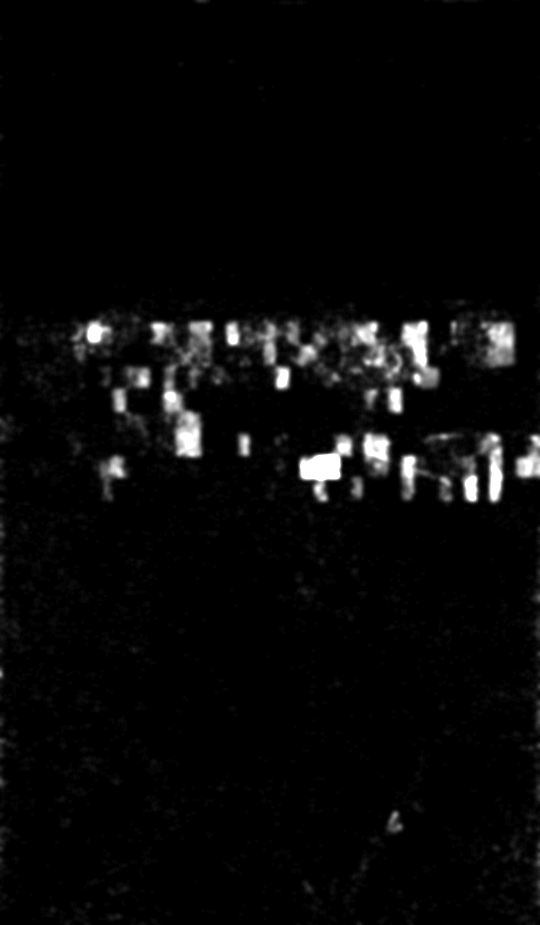
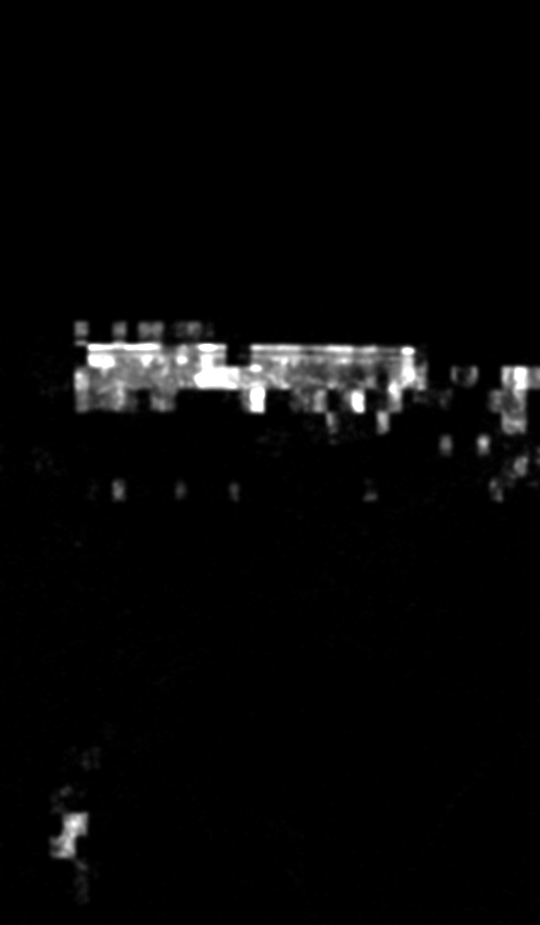
feat: update landing page assets and enhance SAM geometry tests

diff --git a/frontend/src/landing/LandingPage.vue b/frontend/src/landing/LandingPage.vue
@@ -35,6 +35,15 @@ const smoothstep = (edge0, edge1, x) => {
 
 const diveDarkness = computed(() => smoothstep(4.55, 5.0, storyPosition.value))
 
+function actOpacity(act) {
+  if (reducedMotion) return 1
+  const pos = storyPosition.value
+  const fadeOutStart = act === ACT.SACCADE ? act + 0.7 : act + 0.48
+  const fadeOutEnd = act === ACT.SACCADE ? act + 0.92 : act + 0.78
+  if (pos <= fadeOutStart) return 1
+  return 1 - smoothstep(fadeOutStart, fadeOutEnd, pos)
+}
+
 const facts = computed(() => {
   const data = snapshot.value
   if (!data) return null
@@ -49,6 +58,8 @@ const facts = computed(() => {
     maxSurprise: source.maxSurprise.toFixed(2),
     dataset: source.dataset,
     focusTime: focus.formattedTime,
+    focusSurprise: focus.surprise.toFixed(2),
+    focusFrame: focus.frameIdx,
     boardBeesSam: focus.boardBeesSam,
     hotspotBeesSam: focus.hotspotBeesSam,
     boardBeesDetector: focus.boardBeesVjepaDetector,
@@ -167,7 +178,7 @@ onBeforeUnmount(() => {
     <main v-if="facts" class="landing__story">
       <section :ref="bindSection(ACT.ARRIVAL)" class="act act--arrival" :class="{ 'is-seen': isSeen(ACT.ARRIVAL) }">
         <div class="act__content">
-          <div class="act__inner">
+          <div class="act__inner" :style="{ opacity: actOpacity(ACT.ARRIVAL) }">
             <p class="eyebrow">Hive entrance monitoring</p>
             <h1 class="act__title act__title--hero">
               <CalligraphyWord word="beeJEPA" :drawn="sceneState !== 'loading'" />
@@ -187,7 +198,7 @@ onBeforeUnmount(() => {
 
       <section :ref="bindSection(ACT.PERIPHERY)" class="act" :class="{ 'is-seen': isSeen(ACT.PERIPHERY) }">
         <div class="act__content">
-          <div class="act__inner">
+          <div class="act__inner" :style="{ opacity: actOpacity(ACT.PERIPHERY) }">
             <p class="eyebrow">Act I · System 1</p>
             <h2 class="act__title"><CalligraphyWord word="Periphery" :drawn="isSeen(ACT.PERIPHERY)" /></h2>
             <p class="body">
@@ -201,14 +212,15 @@ onBeforeUnmount(() => {
 
       <section :ref="bindSection(ACT.SURPRISE)" class="act" :class="{ 'is-seen': isSeen(ACT.SURPRISE) }">
         <div class="act__content">
-          <div class="act__inner">
+          <div class="act__inner" :style="{ opacity: actOpacity(ACT.SURPRISE) }">
             <p class="eyebrow">Act II · Latent prediction error</p>
             <h2 class="act__title"><CalligraphyWord word="Surprise" :drawn="isSeen(ACT.SURPRISE)" /></h2>
             <p class="formula">S(t) = ‖z<sub>pred</sub> − z<sub>target</sub>‖<sub>2</sub></p>
             <p class="body">
-              S(t) rises when the observed dynamics differ from the prediction. The {{ facts.measurementCount }}
-              measurements contain {{ facts.eventCount }} peak events. The highest is
-              <strong>{{ facts.maxSurprise }}σ</strong> at {{ facts.focusTime }}.
+              S(t) rises when observed dynamics differ from prediction ({{ facts.eventCount }} peaks in
+              {{ facts.measurementCount }} windows). At 00:00 ({{ facts.maxSurprise }}σ), camera placement shakes the
+              whole frame including the grass; at {{ facts.focusTime }} (<strong>{{ facts.focusSurprise }}σ</strong>,
+              frame #{{ facts.focusFrame }}), the camera is stationary and attention localizes on the flight board.
             </p>
             <p class="data">Peak events glow vermilion · height = recorded S(t)</p>
           </div>
@@ -217,12 +229,12 @@ onBeforeUnmount(() => {
 
       <section :ref="bindSection(ACT.SACCADE)" class="act act--tall" :class="{ 'is-seen': isSeen(ACT.SACCADE) }">
         <div class="act__content">
-          <div class="act__inner">
-            <p class="eyebrow">Act III · Foveal crop</p>
+          <div class="act__inner" :style="{ opacity: actOpacity(ACT.SACCADE) }">
+            <p class="eyebrow">Act III · Foveal crop · {{ facts.focusTime }} ({{ facts.focusSurprise }}<span class="sigma">σ</span>)</p>
             <h2 class="act__title"><CalligraphyWord word="Saccade" :drawn="isSeen(ACT.SACCADE)" /></h2>
             <p class="body">
-              The view moves to the region marked by the V-JEPA attention map. SAM 3.1 segments the bees in that
-              region of the keyframe.
+              The view moves to the region marked by the V-JEPA attention map at {{ facts.focusTime }}. SAM 3.1
+              segments the bees on the landing board and isolates the active cluster inside the attention hotspot.
             </p>
             <dl class="readout">
               <div>
@@ -248,7 +260,7 @@ onBeforeUnmount(() => {
 
       <section :ref="bindSection(ACT.REPORT)" class="act" :class="{ 'is-seen': isSeen(ACT.REPORT) }">
         <div class="act__content">
-          <div class="act__inner">
+          <div class="act__inner" :style="{ opacity: actOpacity(ACT.REPORT) }">
             <p class="eyebrow">Act IV · System 2</p>
             <h2 class="act__title"><CalligraphyWord word="Report" :drawn="isSeen(ACT.REPORT)" /></h2>
             <blockquote class="quote">
@@ -405,7 +417,7 @@ onBeforeUnmount(() => {
 }
 
 .act--tall {
-  min-height: 230svh;
+  min-height: 260svh;
 }
 
 .act--enter {
@@ -428,6 +440,16 @@ onBeforeUnmount(() => {
   gap: 0.9rem;
   width: 100%;
   max-width: 34rem;
+}
+
+.act:not(.act--enter) .act__inner {
+  padding: 1.15rem 1.25rem;
+  border: 1px solid rgba(232, 163, 61, 0.16);
+  border-radius: 1rem;
+  background: linear-gradient(180deg, rgba(11, 9, 6, 0.88) 0%, rgba(11, 9, 6, 0.96) 100%);
+  backdrop-filter: blur(14px);
+  -webkit-backdrop-filter: blur(14px);
+  box-shadow: 0 18px 42px rgba(0, 0, 0, 0.72);
 }
 
 .act__inner > * {
@@ -471,6 +493,10 @@ onBeforeUnmount(() => {
   letter-spacing: 0.2em;
   text-transform: uppercase;
   color: var(--wax-muted);
+}
+
+.sigma {
+  text-transform: none;
 }
 
 .act__title {

diff --git a/frontend/src/landing/scene/KeyframeStage.js b/frontend/src/landing/scene/KeyframeStage.js
@@ -77,8 +77,11 @@ export class KeyframeStage {
     })
     this.group.add(new Mesh(this.planeGeometry, this.planeMaterial))
 
-    this.boxes = this.createSamBoxes(focus.samBoxes)
-    this.group.add(this.boxes)
+    this.boardBoxes = this.createBoxLines(focus.boardBoxes || [], PALETTE.waxMuted)
+    this.group.add(this.boardBoxes.lines)
+
+    this.boxes = this.createBoxLines(focus.samBoxes, PALETTE.honey)
+    this.group.add(this.boxes.lines)
 
     this.reticle = this.createReticle()
     this.reticle.position.copy(this.localPointAt(...focus.attention.peak, OVERLAY_OFFSET * 2))
@@ -94,9 +97,9 @@ export class KeyframeStage {
     return this.localPointAt(px, py).add(this.group.position)
   }
 
-  createSamBoxes(samBoxes) {
+  createBoxLines(boxList, colorHex) {
     const vertices = []
-    for (const [x1, y1, x2, y2] of samBoxes) {
+    for (const [x1, y1, x2, y2] of boxList) {
       const corners = [
         this.localPointAt(x1, y1, OVERLAY_OFFSET),
         this.localPointAt(x2, y1, OVERLAY_OFFSET),
@@ -108,12 +111,12 @@ export class KeyframeStage {
         vertices.push(corner.x, corner.y, corner.z, next.x, next.y, next.z)
       })
     }
-    this.boxGeometry = new BufferGeometry()
-    this.boxGeometry.setAttribute('position', new Float32BufferAttribute(vertices, 3))
-    this.boxMaterial = new LineBasicMaterial({ color: PALETTE.honey, transparent: true, depthWrite: false })
-    const lines = new LineSegments(this.boxGeometry, this.boxMaterial)
+    const geometry = new BufferGeometry()
+    geometry.setAttribute('position', new Float32BufferAttribute(vertices, 3))
+    const material = new LineBasicMaterial({ color: colorHex, transparent: true, depthWrite: false })
+    const lines = new LineSegments(geometry, material)
     lines.renderOrder = 2
-    return lines
+    return { geometry, material, lines, count: boxList.length }
   }
 
   createReticle() {
@@ -155,9 +158,13 @@ export class KeyframeStage {
 
   /** Reveals the real SAM 3.1 boxes one by one. */
   setBoxReveal(value) {
-    const visibleBoxes = Math.round(value * this.focus.samBoxes.length)
-    this.boxGeometry.setDrawRange(0, visibleBoxes * 8)
-    this.boxMaterial.opacity = Math.min(1, value * 3)
+    const visibleHotspot = Math.round(value * this.boxes.count)
+    this.boxes.geometry.setDrawRange(0, visibleHotspot * 8)
+    this.boxes.material.opacity = Math.min(1, value * 3)
+
+    const visibleBoard = Math.round(value * this.boardBoxes.count)
+    this.boardBoxes.geometry.setDrawRange(0, visibleBoard * 8)
+    this.boardBoxes.material.opacity = Math.min(0.42, value * 1.4)
   }
 
   /** lock = 0: reticle wide and loose, lock = 1: snapped onto the attention peak. */
@@ -177,8 +184,10 @@ export class KeyframeStage {
     for (const disposable of [
       this.planeGeometry,
       this.planeMaterial,
-      this.boxGeometry,
-      this.boxMaterial,
+      this.boxes.geometry,
+      this.boxes.material,
+      this.boardBoxes.geometry,
+      this.boardBoxes.material,
       this.ringGeometry,
       this.reticleMaterial,
       this.tickGeometry,

diff --git a/frontend/src/landing/scene/HiveScene.js b/frontend/src/landing/scene/HiveScene.js
@@ -188,10 +188,10 @@ export class HiveScene {
     this.ribbon.setReveal(smoothstep(0.05, 1.2, story))
     this.pillars.setGrowth(smoothstep(1.9, 2.7, story))
     this.stage.setOpacity(saccade)
-    this.stage.setHeat(smoothstep(3.0, 3.25, story))
-    this.stage.setBoxReveal(smoothstep(3.25, 3.8, story))
+    this.stage.setHeat(smoothstep(3.0, 3.22, story))
+    this.stage.setBoxReveal(smoothstep(3.15, 3.55, story))
     this.stage.setReticle(saccade, saccade * (1 - smoothstep(4.2, 4.6, story) * 0.65))
-    this.swarm.setLanding(smoothstep(3.3, 3.9, story))
+    this.swarm.setLanding(smoothstep(3.2, 3.6, story))
   }
 
   resize() {

diff --git a/scripts/build_landing_snapshot.py b/scripts/build_landing_snapshot.py
@@ -27,7 +27,7 @@ PROJECT_ROOT = Path(__file__).resolve().parent.parent
 SAMPLE_DIR = PROJECT_ROOT / "data" / "hackathon_sample"
 OUTPUT_DIR = PROJECT_ROOT / "frontend" / "public" / "landing"
 
-FOCUS_EVENT_ID = "evt_rec2125_seq000_f0000"
+FOCUS_EVENT_ID = "evt_rec2125_seq000_f1217"
 HEADER_LUMINANCE_THRESHOLD = 40.0
 HEADER_MIN_BRIGHT_RUN = 24
 HEAT_NOISE_FLOOR = 36.0
@@ -119,6 +119,15 @@ def shift_boxes_into_panel(sam_summary: dict, geometry: PanelGeometry) -> list[l
     return boxes
 
 
+def shift_board_boxes_into_panel(sam_summary: dict, geometry: PanelGeometry) -> list[list[int]]:
+    boxes = []
+    for raw_box in sam_summary.get("boardBees", []):
+        x1, y1, x2, y2 = raw_box
+        if x2 <= geometry.panel_width:
+            boxes.append([x1, y1 - geometry.header_height, x2, y2 - geometry.header_height])
+    return boxes
+
+
 def build_snapshot() -> dict:
     manifest = load_json(SAMPLE_DIR / "manifest.json")
     sam_summary = load_json(SAMPLE_DIR / "cache" / f"sam_spatial_{FOCUS_EVENT_ID}.json")
@@ -153,6 +162,8 @@ def build_snapshot() -> dict:
         "focus": {
             "eventId": FOCUS_EVENT_ID,
             "formattedTime": focus_event["formatted_time"],
+            "timeSec": focus_event["time_sec_global"],
+            "frameIdx": focus_event["frame_approx"],
             "surprise": focus_event["surprise_score"],
             "boardBeesVjepaDetector": focus_event["board_bees"],
             "boardBeesSam": sam_summary["landingBoardBeeCount"],
@@ -160,6 +171,7 @@ def build_snapshot() -> dict:
             "classification": sam_summary["geometricPreClassification"],
             "frame": {"width": geometry.panel_width, "height": geometry.panel_height},
             "samBoxes": shift_boxes_into_panel(sam_summary, geometry),
+            "boardBoxes": shift_board_boxes_into_panel(sam_summary, geometry),
             "attention": describe_attention(heat),
         },
         "muse": {

diff --git a/src/test/java/com/beejepa/muse/SamGeometryTest.java b/src/test/java/com/beejepa/muse/SamGeometryTest.java
@@ -22,17 +22,17 @@ class SamGeometryTest {
 
     @Test
     void testLandingBoardFilter() {
-        // Landing board ROI: cx <= 535, 310 <= cy <= 440
-        BoundingBox onBoard = new BoundingBox(300, 350, 360, 410);
+        // Landing board ROI: cx <= 535, 372 <= cy <= 518
+        BoundingBox onBoard = new BoundingBox(300, 390, 360, 450);
         Assertions.assertTrue(onBoard.isOnLandingBoard());
 
-        BoundingBox offBoardRight = new BoundingBox(550, 350, 600, 410);
+        BoundingBox offBoardRight = new BoundingBox(550, 390, 600, 450);
         Assertions.assertFalse(offBoardRight.isOnLandingBoard());
 
-        BoundingBox offBoardTop = new BoundingBox(300, 100, 350, 150);
+        BoundingBox offBoardTop = new BoundingBox(300, 310, 350, 360);
         Assertions.assertFalse(offBoardTop.isOnLandingBoard());
 
-        BoundingBox offBoardBottom = new BoundingBox(300, 500, 350, 550);
+        BoundingBox offBoardBottom = new BoundingBox(300, 540, 350, 590);
         Assertions.assertFalse(offBoardBottom.isOnLandingBoard());
     }
 
@@ -58,10 +58,10 @@ class SamGeometryTest {
 
     @Test
     void testFindContainedBeesAndClassification() {
-        BoundingBox hotspot = SamGeometry.defaultEntranceHotspot(); // [235, 330, 395, 450]
+        BoundingBox hotspot = SamGeometry.defaultEntranceHotspot(); // [235, 372, 395, 480]
 
-        BoundingBox bee1 = new BoundingBox(250, 350, 290, 390); // inside
-        BoundingBox bee2 = new BoundingBox(310, 370, 350, 410); // inside
+        BoundingBox bee1 = new BoundingBox(250, 390, 290, 430); // inside
+        BoundingBox bee2 = new BoundingBox(310, 410, 350, 450); // inside
         BoundingBox bee3 = new BoundingBox(10, 10, 40, 40);     // outside
 
         List<ContainedBee> contained = SamGeometry.findContainedBees(hotspot, List.of(bee1, bee2, bee3));

diff --git a/src/test/java/com/beejepa/muse/Sam31ClientTest.java b/src/test/java/com/beejepa/muse/Sam31ClientTest.java
@@ -13,19 +13,19 @@ class Sam31ClientTest {
     void testParseBoxesWithTokens() {
         Sam31Client client = new Sam31Client(new ObjectMapper());
 
-        String rawResponse = "Here are the detections: <|box;x1=280;y1=330;x2=340;y2=390;label=bee|> "
-                + "and another one: <|box;x1=600;y1=330;x2=650;y2=380;label=bee|>";
+        String rawResponse = "Here are the detections: <|box;x1=280;y1=390;x2=340;y2=450;label=bee|> "
+                + "and another one: <|box;x1=600;y1=390;x2=650;y2=440;label=bee|>";
 
         // Without filter: should parse both boxes
         List<BoundingBox> allBoxes = client.parseBoxes(rawResponse, false);
         Assertions.assertEquals(2, allBoxes.size());
-        Assertions.assertEquals(new BoundingBox(280, 330, 340, 390), allBoxes.get(0));
-        Assertions.assertEquals(new BoundingBox(600, 330, 650, 380), allBoxes.get(1));
+        Assertions.assertEquals(new BoundingBox(280, 390, 340, 450), allBoxes.get(0));
+        Assertions.assertEquals(new BoundingBox(600, 390, 650, 440), allBoxes.get(1));
 
         // With landing board filter: box 2 (centerX=625 > 535) should be filtered out
         List<BoundingBox> boardBoxes = client.parseBoxes(rawResponse, true);
         Assertions.assertEquals(1, boardBoxes.size());
-        Assertions.assertEquals(new BoundingBox(280, 330, 340, 390), boardBoxes.get(0));
+        Assertions.assertEquals(new BoundingBox(280, 390, 340, 450), boardBoxes.get(0));
     }
 
     @Test

diff --git a/src/main/java/com/beejepa/muse/SamGeometry.java b/src/main/java/com/beejepa/muse/SamGeometry.java
@@ -8,8 +8,8 @@ public final class SamGeometry {
 
     public static final int FRAME_SIZE = 688;
     public static final int LEFT_PANEL_MAX_X = 535;
-    public static final int BOARD_MIN_Y = 310;
-    public static final int BOARD_MAX_Y = 440;
+    public static final int BOARD_MIN_Y = 372;
+    public static final int BOARD_MAX_Y = 518;
 
     private SamGeometry() {}
 
@@ -51,9 +51,9 @@ public final class SamGeometry {
 
     public static BoundingBox defaultEntranceHotspot() {
         int cx = 315;
-        int cy = 390;
+        int cy = 426;
         int halfW = 80;
-        int halfH = 60;
+        int halfH = 54;
         return new BoundingBox(cx - halfW, cy - halfH, cx + halfW, cy + halfH);
     }
 
@@ -62,10 +62,10 @@ public final class SamGeometry {
     }
 
     public static BoundingBox hotspotFromNormCenter(double normCenterX, double normCenterY, int imageWidth, int imageHeight) {
-        int cx = (normCenterX > 0.01) ? Math.clamp((int) Math.round(normCenterX * FRAME_SIZE), 220, 410) : 315;
-        int cy = 390;
+        int cx = (normCenterX > 0.01) ? Math.clamp((int) Math.round(normCenterX * FRAME_SIZE), 180, 410) : 315;
+        int cy = 426;
         int halfW = 80;
-        int halfH = 60;
+        int halfH = 54;
         int x1 = Math.max(0, cx - halfW);
         int y1 = Math.max(0, cy - halfH);
         int x2 = Math.min(imageWidth, cx + halfW);
